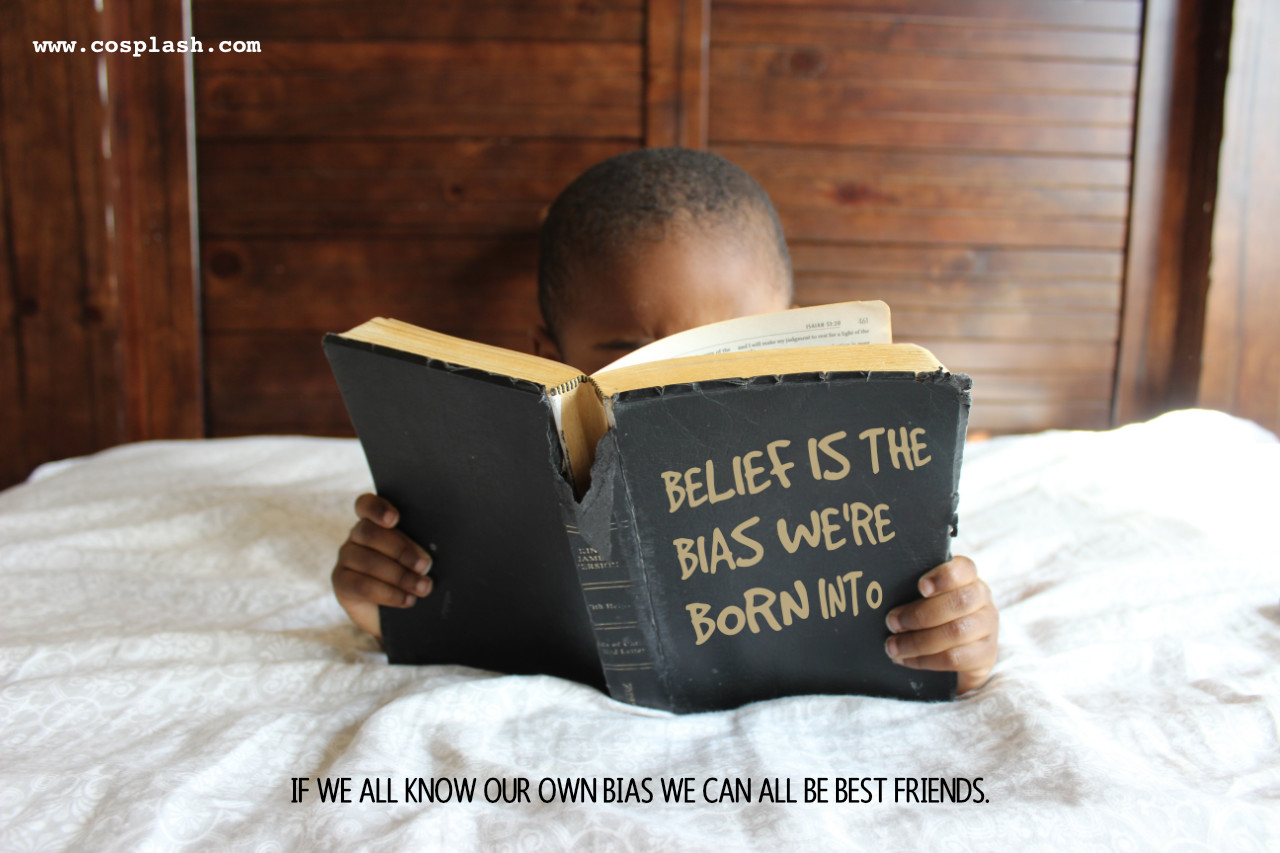
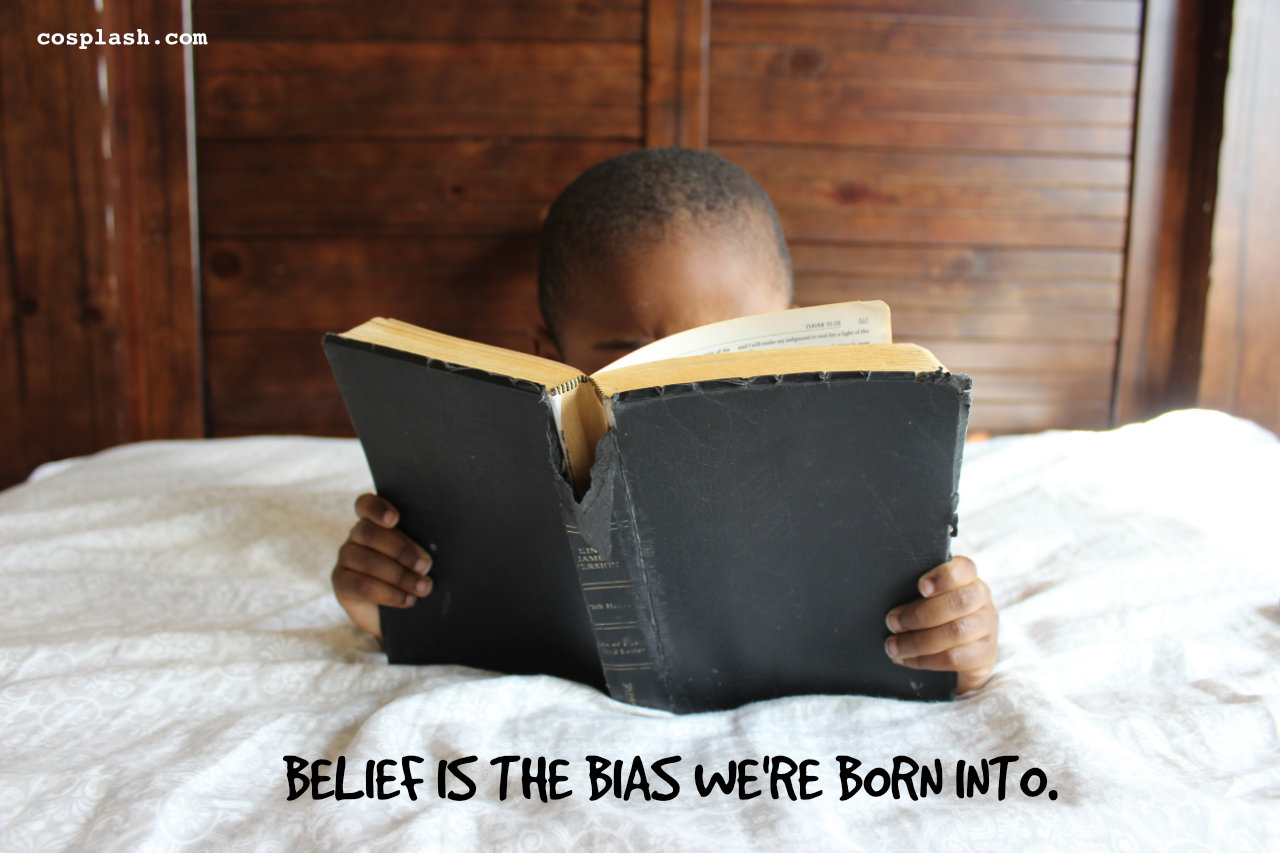
...

Changed region(s): [[0.5, 0.4877, 0.75, 0.762], [0.2188, 0.8839, 0.8438, 0.9449], [0.0312, 0.0305, 0.2188, 0.061]]

diff --git a/index.html b/index.html
@@ -101,24 +101,88 @@
     
       <div class="row">
         <div class="col-md-12">
-          <div class="block block-bordered text-center">
+          <div class="block block-bordered">
 
               <div class="docs-example">
                 <div data-grid="images">
-                  <img class="img-responsive" src="/i/biasborninto.jpg" alt="">
+                  
                 </div>
               </div>
               <div class="highlight">
-                <h4 class="">
-                  Photo by <a href="https://unsplash.com/@samanthasophia"  target="_blank">Samantha Sophia</a> via Unsplash <span class="text-muted">&middot;</span> Words and concept by <a href="https://www.goodcopy.co">GOODCOPY</a>
-                </h4>
-                <p class="text-muted">
-                  Get your free high-res photos from <a href="https://unsplash.com/" target="_blank">Unsplash</a></p>
+                <div class="row">
+                  <div class="col-md-3">
+                    <div data-grid="images">
+                      <img class="img-responsive" src="https://source.unsplash.com/natjj0CTa-s/200x133.3" alt="">
+                    </div>
+                  </div>
+                  <div class="col-md-9">
+                  <p class="lead">
+                    <ul class="iconlist">
+                      <li>
+                        <span class="icon icon-pencil"></span>
+                        Words and concept by <a href="https://www.goodcopy.co">GOODCOPY</a>
+                      </li>
+                      <li>
+                        <span class="icon icon-camera"></span>
+                        Original Photo (left) by <a href="https://unsplash.com/@sebamolinafotos"  target="_blank">Sebastian Molina M</a>
+                      </li>
+                      <li class="">
+                        <span class="icon icon-install"></span>
+                        Get <a href="@sebamolinafotos?photo=natjj0CTa-s"  target="_blank">this free, high-res photo</a> and <a href="https://unsplash.com"  target="_blank">more from Unsplash</a>
+                      </li>
+                    </ul>
+                  </p>
+                  </div>
+                </div>
               </div>
 
+              
+              
 
-            
-            
+          </div>
+        </div>
+      </div>
+
+    
+      <div class="row">
+        <div class="col-md-12">
+          <div class="block block-bordered">
+
+              <div class="docs-example">
+                <div data-grid="images">
+                  <img class="img-responsive" src="/i/bias.jpg" alt="">
+                </div>
+              </div>
+              <div class="highlight">
+                <div class="row">
+                  <div class="col-md-3">
+                    <div data-grid="images">
+                      <img class="img-responsive" src="https://source.unsplash.com/NaWKMlp3tVs/200x133.3" alt="">
+                    </div>
+                  </div>
+                  <div class="col-md-9">
+                  <p class="lead">
+                    <ul class="iconlist">
+                      <li>
+                        <span class="icon icon-pencil"></span>
+                        Words and concept by <a href="https://www.goodcopy.co">GOODCOPY</a>
+                      </li>
+                      <li>
+                        <span class="icon icon-camera"></span>
+                        Original Photo (left) by <a href="https://unsplash.com/@samanthasophia"  target="_blank">Samantha Sophia</a>
+                      </li>
+                      <li class="">
+                        <span class="icon icon-install"></span>
+                        Get <a href="https://unsplash.com/?photo=NaWKMlp3tVs"  target="_blank">this free, high-res photo</a> and <a href="https://unsplash.com"  target="_blank">more from Unsplash</a>
+                      </li>
+                    </ul>
+                  </p>
+                  </div>
+                </div>
+              </div>
+
+              
+              
 
           </div>
         </div>
@@ -138,7 +202,7 @@
 
     <div class="block text-center">
       <h3 class="block-title">Cosplash: something made awesome by <a href=""> GOODCOPY</a>.</h3>
-      <h4 class="text-muted">Cosplash is a side project brought to life because words are my vice and photos make me write them. Inspired by <a href="">Crew's</a> <a href="">Unsplash</a> and their mantra to "make something awesome", Cosplash combines my love of written words and visual arts. I hope Cosplash captures Crew's attention <span class="blk">because I want to work for Crew</span> too.</h4>
+      <h4 class="text-muted">Cosplash is a side project brought to life because words are my vice and photos make me write them. Inspired by <a href="">Crew's</a> <a href="">Unsplash</a> and their mantra to "make something awesome", Cosplash combines my love of words and photography by taking one and conceptualising it into another. I hope Cosplash captures Crew's attention <span class="blk">because I'd love to work for Crew</span>.</h4>
       <a class="btn btn-default m-t" href="https://concisely.co">
         <span class="icon icon-link"></span>
       </a>

diff --git a/love-today/index.html b/love-today/index.html
@@ -88,7 +88,7 @@
 
 
     <section id="main">
-      <h1 id="title">bias</h1>
+      <h1 id="title">Love Today</h1>
       <div>
             <article id="content">
                
@@ -107,8 +107,8 @@
         </div>
         <div>
             
-              <a class="previous" href="https://www.cosplash.com/love-today/"> Love Today</a>
             
+              <a class="next" href="https://www.cosplash.com/bias/"> bias</a>
             
         </div>
     </aside>
